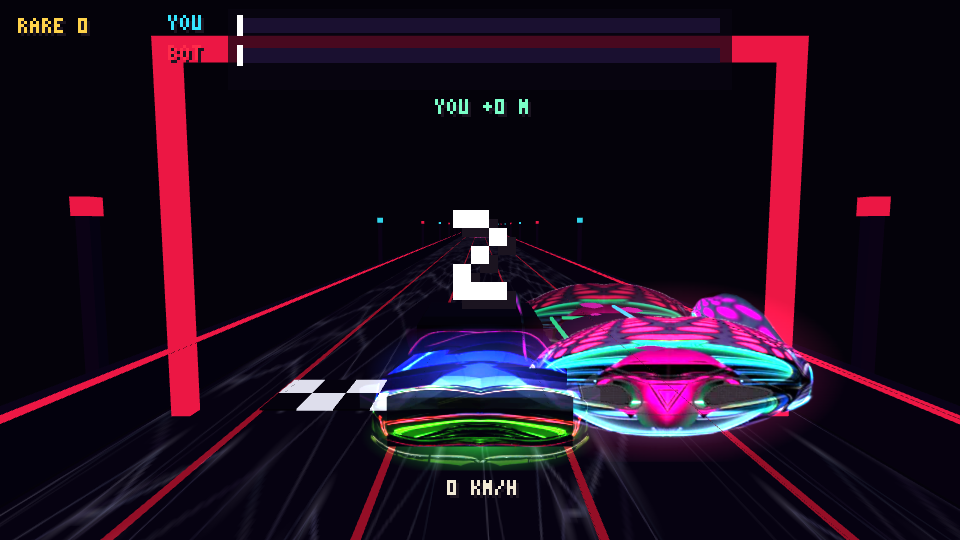
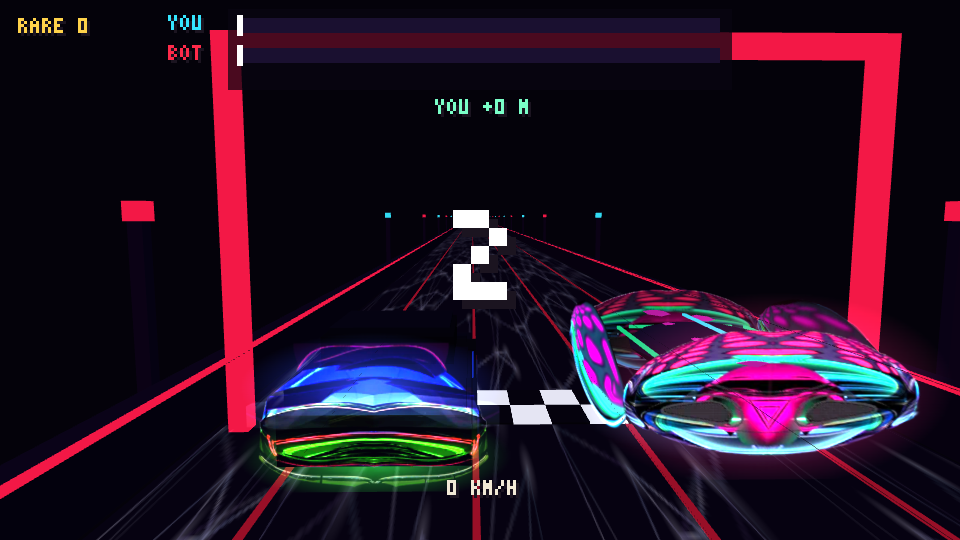
Race zone: the two cars start apart (one at each side of the track), the robot's flanks fixed (left as drawn, right mirrored)

diff --git a/tests/qa3d_race.js b/tests/qa3d_race.js
@@ -63,7 +63,7 @@ const res = []; const T = (n, ok, i = '') => { res.push(ok); console.log((ok ? '
   const TT = await pt.evaluate(() => { const g = __wf; g.touch = true; g.start(); for (let i = 0; i < 260; i++) g.advance(1 / 60); const sc = document.getElementById('screen').getBoundingClientRect(); return { x: sc.left + sc.width * (60 / 320), y: sc.top + sc.height * (158 / 180), state: g.state, lane: g.race.p.lane, drawn: (() => { g.r.draw(g); return g.r.ui.touchLayer() ? g.r.ui.touchLayer().dirty : null; })() }; });
   await pt.touchscreen.tap(TT.x + 20, TT.y); await pt.waitForTimeout(250);
   const T2 = await pt.evaluate(() => { const g = __wf; for (let i = 0; i < 30; i++) g.advance(1 / 60); return { lane: g.race.p.lane, state: g.state }; });
-  T('on a phone the race shows the touch buttons (layer drawn ' + TT.drawn + ') and a tap on the right button moves the car from lane ' + TT.lane + ' to ' + T2.lane, TT.state === 'race' && TT.drawn === true && T2.lane === 1 && pt.errs.length === 0, JSON.stringify({ TT, T2, errs: pt.errs.slice(0, 2) }));
+  T('on a phone the race shows the touch buttons (layer drawn ' + TT.drawn + ') and a tap on the right button moves the car one lane to the right (from ' + TT.lane + ' to ' + T2.lane + ')', TT.state === 'race' && TT.drawn === true && T2.lane === TT.lane + 1 && pt.errs.length === 0, JSON.stringify({ TT, T2, errs: pt.errs.slice(0, 2) }));
 
   // ---- the race zone's own music: its own file and beat map, it takes the mix over while a race runs and gives the clock back after
   const MU = await pz.evaluate(async () => {
@@ -89,8 +89,8 @@ const res = []; const T = (n, ok, i = '') => { res.push(ok); console.log((ok ? '
   // ---- the start: the two cars side by side on the line
   const ST = await pz.evaluate(() => { const g = __wf; g.start(); g.advance(1 / 60); const R = g.race;
     return { pS: R.p.s, bS: R.bot.s, pX: +R.p.x.toFixed(2), bX: +R.bot.x.toFixed(2), lane: RACE.LANE_M, cd: +R.cd.toFixed(1) }; });
-  T('the two cars start SIDE BY SIDE on the line (both at ' + ST.pS + ' m, the player at x ' + ST.pX + ' and the robot one lane away at ' + ST.bX + '), held by the countdown',
-    ST.pS === 0 && ST.bS === 0 && Math.abs(ST.pX) < 0.01 && Math.abs(Math.abs(ST.bX) - ST.lane) < 0.3 && ST.cd > 2, JSON.stringify(ST));
+  T('the two cars start SIDE BY SIDE on the line (both at ' + ST.pS + ' m, one at each side of the track: the player at x ' + ST.pX + ', the robot at ' + ST.bX + ', a lane of road between them), held by the countdown',
+    ST.pS === 0 && ST.bS === 0 && Math.abs(ST.pX + ST.lane) < 0.3 && Math.abs(ST.bX - ST.lane) < 0.3 && Math.abs(ST.bX - ST.pX) > ST.lane * 1.8 && ST.cd > 2, JSON.stringify(ST));
 
   // ---- the engine of the race cars, and the back of the robot's car as an obstacle
   const EN = await pz.evaluate(() => {

diff --git a/src3d/race3d.js b/src3d/race3d.js
@@ -51,8 +51,8 @@ class Race3D {
       const back = this.plane(W, hP), side = this.plane(L2, hS);
       piece(back, this.botMat, this.botGlowMat, [0, Y + hP / 2, L2 / 2 - 0.1], 0, false);                                   // the tail, facing the player behind
       piece(back, this.botMat, this.botGlowMat, [0, Y + hP / 2, -L2 / 2 + 0.1], Math.PI, false);                            // the nose
-      piece(side, this.botSideMat, this.botSideGlow, [-W / 2 + 0.05, Y + hS / 2, 0], -Math.PI / 2, true);                    // the LEFT flank (the user's picture is the left side: mirrored here so its nose points the way the pod runs)
-      piece(side, this.botSideMat, this.botSideGlow, [W / 2 - 0.05, Y + hS / 2, 0], Math.PI / 2, false);                      // and the right flank, the same picture seen from the other side
+      piece(side, this.botSideMat, this.botSideGlow, [-W / 2 + 0.05, Y + hS / 2, 0], -Math.PI / 2, false);                   // the LEFT flank: the user's picture as it is (it IS the left side of the car)
+      piece(side, this.botSideMat, this.botSideGlow, [W / 2 - 0.05, Y + hS / 2, 0], Math.PI / 2, true);                       // the right flank: the same picture mirrored, so the nose points the same way on both sides
       this.bot.add(this.botTop(W, L2, Y + hS, hS));                                                                          // the TOP, modelled to fill what the four pictures leave open
       const bh = new THREE.Mesh(this.plane(W * 1.3, hP * 1.6), this.botHalo); bh.position.set(0, Y + hP / 2, L2 / 2 - 0.15); this.bot.add(bh); this.bot.userData.halo = bh;
       const gl = new THREE.Mesh(this.plane(W * 1.1, L2 * 0.9), this.botGlow); gl.rotation.x = -Math.PI / 2; gl.position.y = 0.02; this.bot.add(gl);

diff --git a/src/race.js b/src/race.js
@@ -12,8 +12,8 @@ const RACE = {
 class Race {
   constructor(seed) {
     this.seed = seed || 1; this.t = 0; this.done = false; this.result = null; this.fin = 0;          // result: 'win' | 'lose'
-    this.p = { s: 0, lane: 0, x: 0, speed: RACE.BASE * 0.6, boost: 0, boostT: 0, brakeT: 0, hitT: 0, air: 0, spirals: 0, rare: 0, hits: 0, rings: 0, jumps: 0, near: 0, bumps: 0 };
-    this.bot = { s: 0, speed: RACE.BASE * 0.65, lane: 1, x: RACE.LANE_M, finishT: null };             // the two cars start SIDE BY SIDE on the line, the robot in the lane beside the player's                                              
+    this.p = { s: 0, lane: -1, x: -RACE.LANE_M, speed: RACE.BASE * 0.6, boost: 0, boostT: 0, brakeT: 0, hitT: 0, air: 0, spirals: 0, rare: 0, hits: 0, rings: 0, jumps: 0, near: 0, bumps: 0 };
+    this.bot = { s: 0, speed: RACE.BASE * 0.65, lane: 1, x: RACE.LANE_M, finishT: null };             // the two cars start SIDE BY SIDE on the line, one at each side of the track (the player on the left, the robot on the right: a lane of road between them)                                              
     this.items = []; this.events = []; this.build();
   }
   rnd(n) { let h = (this.seed * 374761393 + n * 668265263) >>> 0; h = ((h ^ (h >>> 13)) * 1274126177) >>> 0; return ((h ^ (h >>> 16)) >>> 0) / 4294967296; }

diff --git a/README.md b/README.md
@@ -354,3 +354,5 @@ The rear picture is cut to the car itself (`CROP` in `tools/make_race_assets.py`
 **The robot's car completed in 3D.** It is built from the user's own pictures, as they are: the **head-on view at the tail and at the nose** and the **side view on both flanks** (`RACE_ASSETS.botPod` / `.botSide`), all four at the same height so the pod is one body (3.8 m long, 3.6 m wide, 1.6 m tall), each picture drawn once for the paint and twice more additively so its neon is lit, with a pink halo round it and a glow on the road under it. The side picture is the car's **LEFT** flank, so it is mirrored on the left plane (its nose then points the way the pod runs) and used as it is on the right one. A **modelled top** closes what the four pictures leave open: a shallow dark shell in the colours of the drawings, with their magenta cells glowing on it, a green rim all round and a thin cyan line down the middle (`Race3D.botTop`). The pictures of the cars and of the droid are no longer padded into a square (`fit_rect` in `tools/make_race_assets.py`), so each one fills its plane at its own size. It leans into the lane it is changing to. Render: `docs/race/robot-car-3d.jpg` (behind, three-quarter, from above).
 
 **The engine, made gentler (user: 'un peu derangeant, mais au depart c'est genial').** The race cars' engine is now the drive of a **sophisticated spacecraft**: a sine body with a triangle beating just beside it, its octave, a sub for the weight, a high shimmer that comes and goes on a slow LFO, a slow drift of the pitch (the drive breathes) and a breath of filtered air whose colour moves. The saw voices and the ring-modulated whine of the first version are gone, and the level is a third of what it was. It is at its **loudest at the start** (the countdown and the launch, which the user liked) and falls to a faint hum over 3 s, so it carries the start and then sits under the music (`GameAudio.engine`, the `level` it is driven with).
+
+**Start apart, and the flanks the right way round.** The two cars still start side by side on the line but now **one at each side of the track** (the player on the left, the robot on the right, a lane of road between them: `Race` constructor). The robot's side picture is the car's **left** flank: it is used as it is on the left plane and mirrored on the right one, so the nose points the way the pod runs on both sides (the first version had them the wrong way round). Capture: `docs/race/race-start.png`; sides: `docs/race/robot-car-sides.jpg`.
